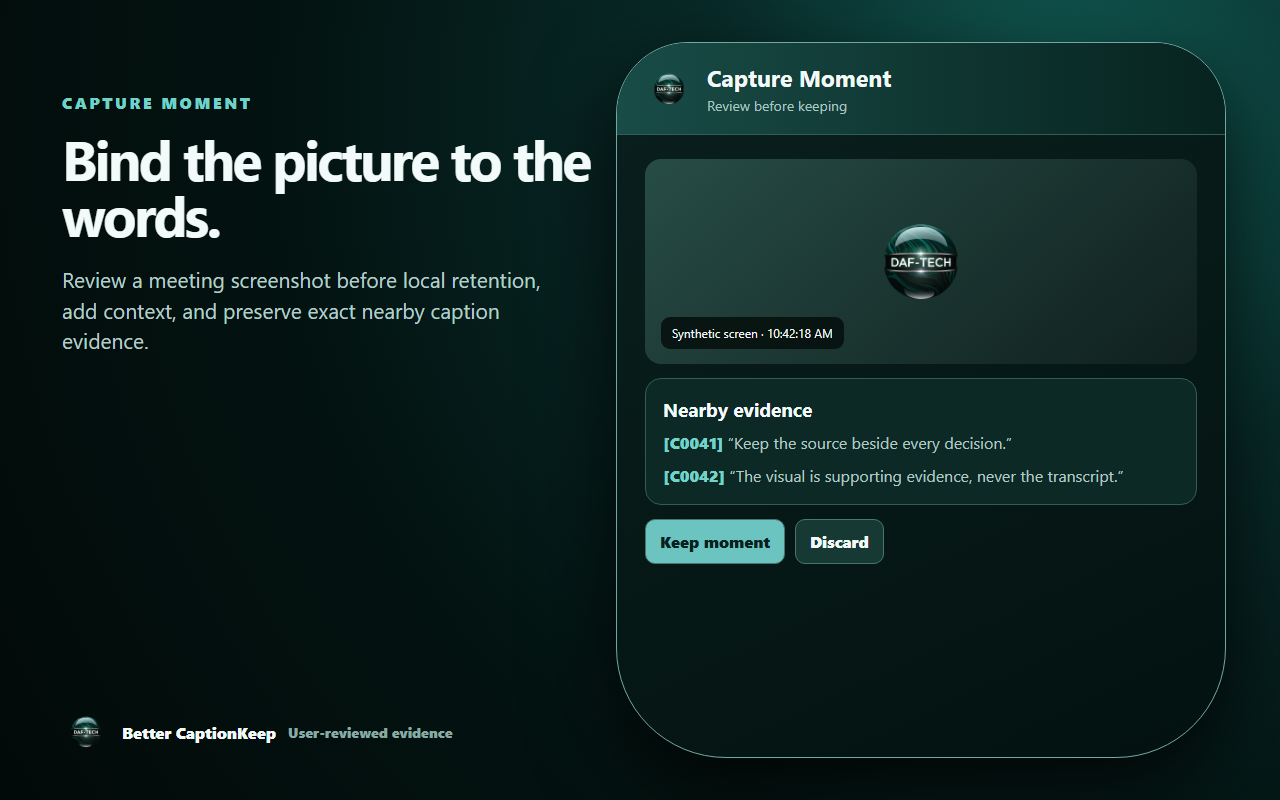
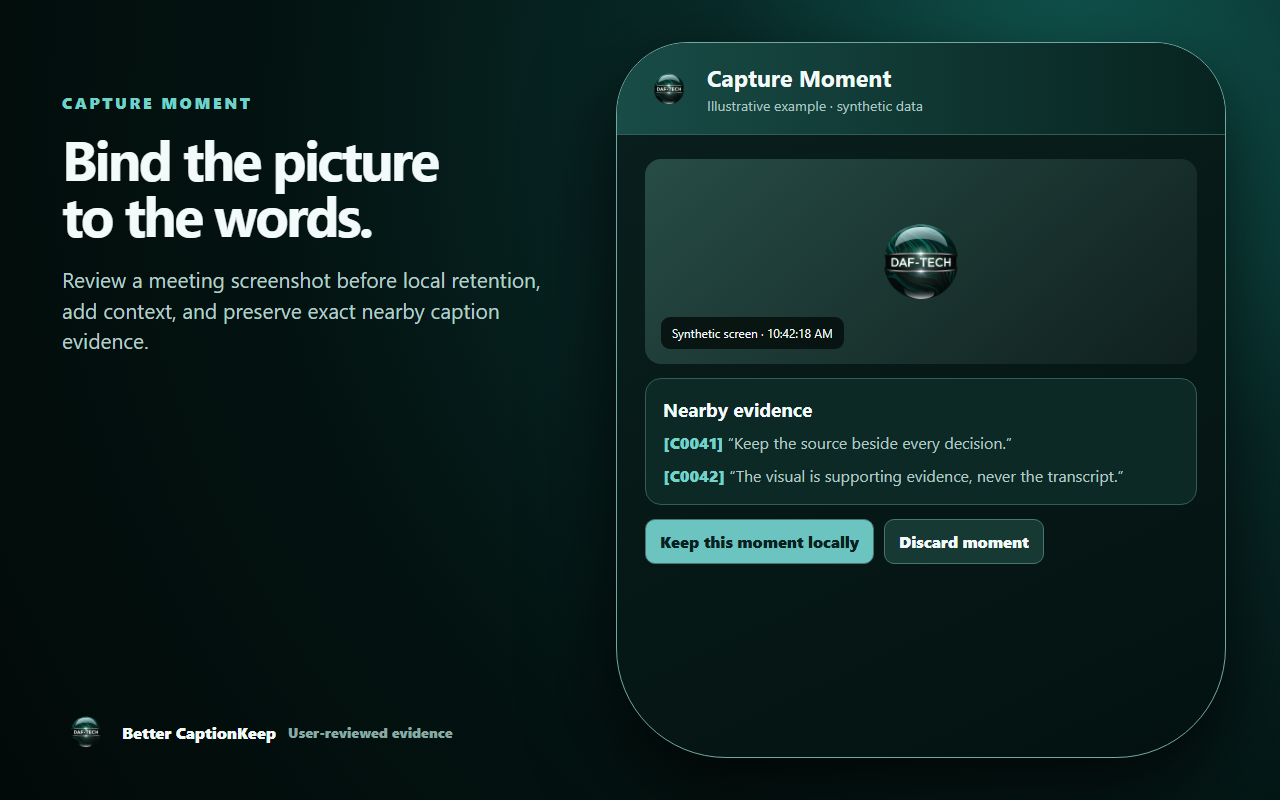
Codex: prepare 6.0 release qualification and repair packaging sandbox

diff --git a/store-assets/6.0/source.html b/store-assets/6.0/source.html
@@ -1,12 +1,12 @@
 <!doctype html>
 <html lang="en"><head><meta charset="utf-8"><meta name="viewport" content="width=device-width,initial-scale=1"><title>Better CaptionKeep 6.0 Store artwork</title>
 <style>
-*{box-sizing:border-box}html,body{margin:0;width:100%;height:100%;overflow:hidden}body{font-family:Inter,"Segoe UI",Arial,sans-serif;background:#03100f;color:#f3fbfa}.slide{display:none;position:relative;width:100vw;height:100vh;padding:58px 62px;background:radial-gradient(circle at 84% 14%,#135f58 0,#082b29 29%,#031311 62%,#020a09 100%)}body.s1 #s1,body.s2 #s2,body.s3 #s3,body.s4 #s4,body.s5 #s5{display:block}.copy{position:absolute;left:62px;top:92px;width:42%;z-index:2}.eyebrow{font-size:16px;font-weight:850;letter-spacing:.16em;text-transform:uppercase;color:#6fd3ca}.copy h1{font-size:55px;line-height:1.02;letter-spacing:-.045em;margin:18px 0}.copy p{max-width:480px;font-size:21px;line-height:1.45;color:#b6ceca}.brand{position:absolute;left:62px;bottom:44px;display:flex;align-items:center;gap:12px;font-weight:800}.brand img{width:48px;height:48px}.brand small{font-size:14px;color:#88aaa5}.window{position:absolute;right:54px;top:42px;width:610px;height:716px;border:1px solid #72a8a1;border-radius:72px 72px 110px 110px;background:linear-gradient(155deg,#0a201e,#031210);box-shadow:0 30px 86px #000c;overflow:hidden}.head{height:92px;padding:22px 28px;background:linear-gradient(90deg,#194c47,#07231f);display:flex;align-items:center;gap:14px;border-bottom:1px solid #315e58}.head img{width:48px;height:48px}.head b{font-size:23px}.head span{display:block;color:#abc5c1;font-size:14px;margin-top:3px}.gear{margin-left:auto;font-size:25px}.body{padding:24px 28px}.source{display:flex;align-items:center;gap:14px;padding-bottom:18px;border-bottom:1px solid #24433f}.sourceicon{width:54px;height:54px;border-radius:16px;display:grid;place-items:center;background:linear-gradient(135deg,#2f963c 0 50%,#3975e8 50%);font-weight:900;font-size:24px}.source strong{font-size:20px}.source small{display:block;color:#a5bdb9;margin-top:4px}.ready{margin-left:auto;color:#76d997;font-weight:850}.sphere{width:142px;height:142px;margin:25px auto 14px;display:block;filter:drop-shadow(0 0 18px #58c7bb55)}.center{text-align:center}.center h2{font-size:34px;margin:8px 0 10px}.center p{font-size:17px;line-height:1.5;color:#abc0bd;margin:0 auto 20px;max-width:500px}.primary{height:68px;border-radius:13px;background:#70c8c5;color:#062322;display:grid;place-items:center;font-weight:900;font-size:22px}.platforms{display:grid;grid-template-columns:repeat(3,1fr);gap:10px;margin-top:14px}.platform{padding:13px 5px;border:1px solid #35615b;border-radius:13px;text-align:center;background:#102b27;font-weight:800}.tabs{display:flex;gap:8px;margin-bottom:18px}.tab{padding:10px 13px;border-radius:999px;color:#91aaa6;font-weight:750}.tab.on{background:#1d524c;color:#fff}.card{border:1px solid #315d57;background:#0d2925;border-radius:16px;padding:17px;margin-top:14px}.card h3{margin:0 0 9px;font-size:19px}.card p{margin:0;color:#b4c9c5;line-height:1.45}.cite{color:#74d3c8;font-weight:800}.row{display:flex;gap:10px;margin-top:14px}.button{padding:11px 14px;border-radius:10px;border:1px solid #4a756f;background:#173934;font-weight:800}.button.hot{background:#6cc4c0;color:#062120}.moment{height:205px;border-radius:16px;background:linear-gradient(140deg,#274c46,#10201e);display:grid;place-items:center;position:relative;overflow:hidden}.moment img{width:118px}.stamp{position:absolute;bottom:15px;left:16px;padding:8px 11px;background:#07120fee;border-radius:9px;font-size:12px}.receipt{display:grid;grid-template-columns:1fr 1fr;gap:12px}.metric{padding:16px;border-radius:14px;background:#102c28;border:1px solid #315954}.metric b{font-size:26px;display:block}.metric span{color:#a8c0bc;font-size:13px}.settings{display:grid;grid-template-columns:1fr 1fr;gap:11px}.setting{padding:14px;border-radius:13px;border:1px solid #315b55;background:#102924}.setting b{display:block;margin-bottom:5px}.setting span{font-size:13px;color:#9eb8b3}.switch{float:right;width:38px;height:21px;border-radius:999px;background:#69c5a0;position:relative}.switch:after{content:"";position:absolute;right:3px;top:3px;width:15px;height:15px;border-radius:50%;background:white}#promo{display:none;position:relative;width:100vw;height:100vh;background:radial-gradient(circle at 76% 46%,#11645b 0,#07322e 25%,#020b0a 67%);overflow:hidden}.promo .orb{position:absolute;right:7%;top:50%;transform:translateY(-50%);height:82%;filter:drop-shadow(0 0 34px #73ddd277)}.promo .pcopy{position:absolute;left:7%;top:18%;width:53%;z-index:2}.promo .label{color:#71d5cc;text-transform:uppercase;letter-spacing:.16em;font-weight:900;font-size:min(2.4vw,17px)}.promo h1{font-size:min(7vw,70px);line-height:.98;letter-spacing:-.045em;margin:15px 0;color:white}.promo p{font-size:min(3vw,24px);color:#bad4cf;margin:0}.promo .product{position:absolute;left:7%;bottom:9%;font-weight:850}body.promo .slide{display:none}body.promo #promo{display:block}body.small .pcopy{top:16%;width:62%}body.small .promo h1{font-size:34px}body.small .promo p{display:none}body.small .promo .orb{height:72%;right:2%}body.small .promo .product{font-size:12px}
+*{box-sizing:border-box}html,body{margin:0;width:100%;height:100%;overflow:hidden}body{font-family:Inter,"Segoe UI",Arial,sans-serif;background:#03100f;color:#f3fbfa}.slide{display:none;position:relative;width:100vw;height:100vh;padding:58px 62px;background:radial-gradient(circle at 84% 14%,#135f58 0,#082b29 29%,#031311 62%,#020a09 100%)}body.s1 #s1,body.s2 #s2,body.s3 #s3,body.s4 #s4,body.s5 #s5{display:block}.copy{position:absolute;left:62px;top:92px;width:42%;z-index:2}.eyebrow{font-size:16px;font-weight:850;letter-spacing:.16em;text-transform:uppercase;color:#6fd3ca}.copy h1{text-wrap:balance;font-size:55px;line-height:1.02;letter-spacing:-.045em;margin:18px 0}.copy p{max-width:480px;font-size:21px;line-height:1.45;color:#b6ceca}.brand{position:absolute;left:62px;bottom:44px;display:flex;align-items:center;gap:12px;font-weight:800}.brand img{width:48px;height:48px}.brand small{font-size:14px;color:#88aaa5}.window{position:absolute;right:54px;top:42px;width:610px;height:716px;border:1px solid #72a8a1;border-radius:72px 72px 110px 110px;background:linear-gradient(155deg,#0a201e,#031210);box-shadow:0 30px 86px #000c;overflow:hidden}.head{height:92px;padding:22px 28px;background:linear-gradient(90deg,#194c47,#07231f);display:flex;align-items:center;gap:14px;border-bottom:1px solid #315e58}.head img{width:48px;height:48px}.head b{font-size:23px}.head span{display:block;color:#abc5c1;font-size:14px;margin-top:3px}.gear{margin-left:auto;font-size:25px}.body{padding:24px 28px}.source{display:flex;align-items:center;gap:14px;padding-bottom:18px;border-bottom:1px solid #24433f}.sourceicon{width:54px;height:54px;border-radius:16px;display:grid;place-items:center;background:linear-gradient(135deg,#2f963c 0 50%,#3975e8 50%);font-weight:900;font-size:24px}.source strong{font-size:20px}.source small{display:block;color:#a5bdb9;margin-top:4px}.ready{margin-left:auto;color:#76d997;font-weight:850}.sphere{width:142px;height:142px;margin:25px auto 14px;display:block;filter:drop-shadow(0 0 18px #58c7bb55)}.center{text-align:center}.center h2{text-wrap:balance;font-size:34px;margin:8px 0 10px}.center p{font-size:17px;line-height:1.5;color:#abc0bd;margin:0 auto 20px;max-width:500px}.primary{height:68px;border-radius:13px;background:#70c8c5;color:#062322;display:grid;place-items:center;font-weight:900;font-size:22px}.secondary{text-align:center;padding:16px 0;color:#b6ceca;font-size:17px;font-weight:750}.platforms{display:grid;grid-template-columns:repeat(3,1fr);gap:10px;margin-top:14px}.platform{padding:13px 5px;border:1px solid #35615b;border-radius:13px;text-align:center;background:#102b27;font-weight:800}.tabs{display:flex;gap:8px;margin-bottom:18px}.tab{padding:10px 13px;border-radius:999px;color:#91aaa6;font-weight:750}.tab.on{background:#1d524c;color:#fff}.card{border:1px solid #315d57;background:#0d2925;border-radius:16px;padding:17px;margin-top:14px}.card h3{margin:0 0 9px;font-size:19px}.card p{margin:0;color:#b4c9c5;line-height:1.45}.cite{color:#74d3c8;font-weight:800}.row{display:flex;flex-wrap:wrap;gap:10px;margin-top:14px}.button{padding:11px 14px;border-radius:10px;border:1px solid #4a756f;background:#173934;font-weight:800}.button.hot{background:#6cc4c0;color:#062120}.moment{height:205px;border-radius:16px;background:linear-gradient(140deg,#274c46,#10201e);display:grid;place-items:center;position:relative;overflow:hidden}.moment img{width:118px}.stamp{position:absolute;bottom:15px;left:16px;padding:8px 11px;background:#07120fee;border-radius:9px;font-size:12px}.receipt{display:grid;grid-template-columns:1fr 1fr;gap:12px}.metric{padding:16px;border-radius:14px;background:#102c28;border:1px solid #315954}.metric b{font-size:26px;display:block}.metric span{color:#a8c0bc;font-size:13px}.settings{display:grid;grid-template-columns:1fr 1fr;gap:11px}.setting{padding:14px;border-radius:13px;border:1px solid #315b55;background:#102924}.setting b{display:block;margin-bottom:5px}.setting span{font-size:13px;color:#9eb8b3}.switch{float:right;width:38px;height:21px;border-radius:999px;background:#69c5a0;position:relative}.switch:after{content:"";position:absolute;right:3px;top:3px;width:15px;height:15px;border-radius:50%;background:white}#promo{display:none;position:relative;width:100vw;height:100vh;background:radial-gradient(circle at 76% 46%,#11645b 0,#07322e 25%,#020b0a 67%);overflow:hidden}.promo .orb{position:absolute;right:7%;top:50%;transform:translateY(-50%);height:82%;filter:drop-shadow(0 0 34px #73ddd277)}.promo .pcopy{position:absolute;left:7%;top:18%;width:53%;z-index:2}.promo .label{color:#71d5cc;text-transform:uppercase;letter-spacing:.16em;font-weight:900;font-size:min(2.4vw,17px)}.promo h1{font-size:min(7vw,70px);line-height:.98;letter-spacing:-.045em;margin:15px 0;color:white}.promo p{font-size:min(3vw,24px);color:#bad4cf;margin:0}.promo .product{position:absolute;left:7%;bottom:9%;font-weight:850}body.promo .slide{display:none}body.promo #promo{display:block}body.small .pcopy{top:16%;width:62%}body.small .promo h1{font-size:34px}body.small .promo p{display:none}body.small .promo .orb{height:72%;right:2%}body.small .promo .product{font-size:12px}
 </style></head><body>
-<section id="s1" class="slide"><div class="copy"><div class="eyebrow">One calm decision</div><h1>Keep the meeting. Keep the evidence.</h1><p>Live transcripts begin ready on Teams, Google Meet, and Zoom Web. One button preserves the meeting locally.</p></div><div class="window"><div class="head"><img src="../../teams-captions-saver/icons/daf-tech-sphere.png"><div><b>Better CaptionKeep</b><span>Meeting record</span></div><div class="gear">⚙</div></div><div class="body"><div class="source"><div class="sourceicon">M</div><div><strong>Google Meet</strong><small>18 captions preserved</small></div><div class="ready">Ready</div></div><img class="sphere" src="../../teams-captions-saver/icons/daf-tech-sphere.png"><div class="center"><h2>Keep this meeting?</h2><p>Capturing locally. Your transcript stays on this device until you choose otherwise.</p></div><div class="primary">Keep this meeting</div><div class="platforms"><div class="platform">Teams</div><div class="platform">Meet</div><div class="platform">Zoom</div></div></div></div><div class="brand"><img src="../../teams-captions-saver/icons/daf-tech-sphere.png">Better CaptionKeep <small>Version 6.0</small></div></section>
-<section id="s2" class="slide"><div class="copy"><div class="eyebrow">Rolling Live Notes</div><h1>Notes that can show their work.</h1><p>Restart-safe rolling drafts cite the exact source captions. Pause, resume, revise, and review without changing the transcript.</p></div><div class="window"><div class="head"><img src="../../teams-captions-saver/icons/daf-tech-sphere.png"><div><b>Live Workspace</b><span>Synthetic product review</span></div></div><div class="body"><div class="tabs"><div class="tab">Transcript</div><div class="tab on">Live Notes</div><div class="tab">Evidence</div><div class="tab">Ask</div></div><div class="card"><h3>Rolling notes · capturing</h3><p><span class="cite">[C0007]</span> The team agreed that every derivative must retain its source fingerprint.</p><p style="margin-top:12px"><span class="cite">[C0012]</span> The rollout owner will verify browser-specific upgrade behavior.</p><div class="row"><div class="button hot">Update now</div><div class="button">Pause</div><div class="button">Review draft</div></div></div><div class="card"><h3>Revision history</h3><p>Revision 4 · 24 cited captions · locally retained</p></div></div></div><div class="brand"><img src="../../teams-captions-saver/icons/daf-tech-sphere.png">Better CaptionKeep <small>Local cited notes</small></div></section>
-<section id="s3" class="slide"><div class="copy"><div class="eyebrow">Capture Moment</div><h1>Bind the picture to the words.</h1><p>Review a meeting screenshot before local retention, add context, and preserve exact nearby caption evidence.</p></div><div class="window"><div class="head"><img src="../../teams-captions-saver/icons/daf-tech-sphere.png"><div><b>Capture Moment</b><span>Review before keeping</span></div></div><div class="body"><div class="moment"><img src="../../teams-captions-saver/icons/daf-tech-sphere.png"><div class="stamp">Synthetic screen · 10:42:18 AM</div></div><div class="card"><h3>Nearby evidence</h3><p><span class="cite">[C0041]</span> “Keep the source beside every decision.”</p><p style="margin-top:10px"><span class="cite">[C0042]</span> “The visual is supporting evidence, never the transcript.”</p></div><div class="row"><div class="button hot">Keep moment</div><div class="button">Discard</div></div></div></div><div class="brand"><img src="../../teams-captions-saver/icons/daf-tech-sphere.png">Better CaptionKeep <small>User-reviewed evidence</small></div></section>
-<section id="s4" class="slide"><div class="copy"><div class="eyebrow">Meeting Receipt</div><h1>From live captions to a durable record.</h1><p>Search, reopen, export, ask cited questions, and retain reviewed outcomes—while the original captions remain untouched.</p></div><div class="window"><div class="head"><img src="../../teams-captions-saver/icons/daf-tech-sphere.png"><div><b>Meeting Receipt</b><span>Architecture decision review</span></div></div><div class="body"><div class="receipt"><div class="metric"><b>86</b><span>source captions</span></div><div class="metric"><b>7</b><span>evidence markers</span></div><div class="metric"><b>4</b><span>note revisions</span></div><div class="metric"><b>1</b><span>captured moment</span></div></div><div class="card"><h3>Ask this transcript</h3><p>What decision was made about retention?</p><p style="margin-top:12px"><span class="cite">Answer:</span> The pilot retains local meeting receipts for 30 days unless managed policy requires less. <span class="cite">[C0062] [C0065]</span></p></div><div class="row"><div class="button hot">Export receipt</div><div class="button">Open transcript</div></div></div></div><div class="brand"><img src="../../teams-captions-saver/icons/daf-tech-sphere.png">Better CaptionKeep <small>Source-preserving by design</small></div></section>
-<section id="s5" class="slide"><div class="copy"><div class="eyebrow">Light front door. Deep back door.</div><h1>Simple for meetings. Serious for operations.</h1><p>Privacy, retention, templates, exports, enterprise policy, Microsoft 365, diagnostics, and five browser targets live behind one settings gear.</p></div><div class="window"><div class="head"><img src="../../teams-captions-saver/icons/daf-tech-sphere.png"><div><b>All Settings</b><span>Version 6.0 operational cockpit</span></div></div><div class="body"><div class="settings"><div class="setting"><i class="switch"></i><b>Live transcript</b><span>Starts on for supported meetings</span></div><div class="setting"><i class="switch"></i><b>Privacy Scrubber</b><span>Review before external handoff</span></div><div class="setting"><b>Meeting templates</b><span>Local, versioned, source-bound</span></div><div class="setting"><b>Retention</b><span>User and managed policy controls</span></div><div class="setting"><b>Microsoft 365</b><span>Customer-owned tenant setup</span></div><div class="setting"><b>Exports</b><span>TXT · Markdown · DOCX · PDF</span></div></div><div class="card"><h3>Browser commitment</h3><p>Chrome · Edge · Brave · Firefox · Opera</p></div><div class="card"><h3>Local by default</h3><p>No meeting bot. No required CaptionKeep account. No publisher-operated transcript cloud.</p></div></div></div><div class="brand"><img src="../../teams-captions-saver/icons/daf-tech-sphere.png">Better CaptionKeep <small>Advanced controls when you need them</small></div></section>
+<section id="s1" class="slide"><div class="copy"><div class="eyebrow">One calm decision</div><h1>Keep the meeting. Keep the evidence.</h1><p>Live caption capture starts automatically on supported Teams, Google Meet, and Zoom Web meetings. Open Live Workspace to review the local transcript.</p></div><div class="window"><div class="head"><img src="../../teams-captions-saver/icons/daf-tech-sphere.png"><div><b>Better CaptionKeep</b><span>Illustrative example · synthetic data</span></div><div class="gear">⚙</div></div><div class="body"><div class="source"><div class="sourceicon">M</div><div><strong>Google Meet</strong><small>18 captions preserved</small></div><div class="ready">Live</div></div><img class="sphere" src="../../teams-captions-saver/icons/daf-tech-sphere.png"><div class="center"><h2>Live transcript is on</h2><p>Capturing locally. Your transcript stays on this device until you choose otherwise.</p></div><div class="primary">Open Live Workspace</div><div class="secondary">Open last live transcript</div></div></div><div class="brand"><img src="../../teams-captions-saver/icons/daf-tech-sphere.png">Better CaptionKeep <small>Version 6.0</small></div></section>
+<section id="s2" class="slide"><div class="copy"><div class="eyebrow">Rolling Live Notes</div><h1>Notes that can show their work.</h1><p>Restart-safe rolling drafts cite the exact source captions. Pause, resume, revise, and review without changing the transcript.</p></div><div class="window"><div class="head"><img src="../../teams-captions-saver/icons/daf-tech-sphere.png"><div><b>Live Workspace</b><span>Illustrative example · synthetic data</span></div></div><div class="body"><div class="tabs"><div class="tab">Transcript</div><div class="tab on">Notes</div><div class="tab">Tools</div></div><div class="card"><h3>Rolling notes · Running</h3><p><span class="cite">[C0007]</span> The team agreed that every derivative must retain its source fingerprint.</p><p style="margin-top:12px"><span class="cite">[C0012]</span> The rollout owner will verify browser-specific upgrade behavior.</p><div class="row"><div class="button hot">Update now</div><div class="button">Pause rolling notes</div><div class="button">Review this draft</div></div></div><div class="card"><h3>Rolling revision history</h3><p>Revision 4 · 24 cited captions · locally retained</p></div></div></div><div class="brand"><img src="../../teams-captions-saver/icons/daf-tech-sphere.png">Better CaptionKeep <small>Local cited notes</small></div></section>
+<section id="s3" class="slide"><div class="copy"><div class="eyebrow">Capture Moment</div><h1>Bind the picture to the words.</h1><p>Review a meeting screenshot before local retention, add context, and preserve exact nearby caption evidence.</p></div><div class="window"><div class="head"><img src="../../teams-captions-saver/icons/daf-tech-sphere.png"><div><b>Capture Moment</b><span>Illustrative example · synthetic data</span></div></div><div class="body"><div class="moment"><img src="../../teams-captions-saver/icons/daf-tech-sphere.png"><div class="stamp">Synthetic screen · 10:42:18 AM</div></div><div class="card"><h3>Nearby evidence</h3><p><span class="cite">[C0041]</span> “Keep the source beside every decision.”</p><p style="margin-top:10px"><span class="cite">[C0042]</span> “The visual is supporting evidence, never the transcript.”</p></div><div class="row"><div class="button hot">Keep this moment locally</div><div class="button">Discard moment</div></div></div></div><div class="brand"><img src="../../teams-captions-saver/icons/daf-tech-sphere.png">Better CaptionKeep <small>User-reviewed evidence</small></div></section>
+<section id="s4" class="slide"><div class="copy"><div class="eyebrow">Meeting Receipt</div><h1>From live captions to a durable record.</h1><p>Search, reopen, export, ask cited questions, and retain reviewed outcomes—while the original captions remain untouched.</p></div><div class="window"><div class="head"><img src="../../teams-captions-saver/icons/daf-tech-sphere.png"><div><b>Meeting Receipt</b><span>Illustrative example · synthetic data</span></div></div><div class="body"><div class="receipt"><div class="metric"><b>86</b><span>source captions</span></div><div class="metric"><b>7</b><span>evidence markers</span></div><div class="metric"><b>4</b><span>note revisions</span></div><div class="metric"><b>1</b><span>captured moment</span></div></div><div class="card"><h3>Ask this transcript</h3><p>What decision was made about retention?</p><p style="margin-top:12px"><span class="cite">Answer:</span> The pilot retains local meeting receipts for 30 days unless managed policy requires less. <span class="cite">[C0062] [C0065]</span></p></div><div class="row"><div class="button hot">Keep reviewed answer</div><div class="button">Clear draft</div></div></div></div><div class="brand"><img src="../../teams-captions-saver/icons/daf-tech-sphere.png">Better CaptionKeep <small>Source-preserving by design</small></div></section>
+<section id="s5" class="slide"><div class="copy"><div class="eyebrow">Light front door. Deep back door.</div><h1>Simple for meetings. Serious for operations.</h1><p>Privacy, retention, templates, exports, enterprise policy, Microsoft 365, diagnostics, and five browser targets live behind one settings gear.</p></div><div class="window"><div class="head"><img src="../../teams-captions-saver/icons/daf-tech-sphere.png"><div><b>All Settings</b><span>Illustrative example · synthetic data</span></div></div><div class="body"><div class="settings"><div class="setting"><i class="switch"></i><b>Live transcript</b><span>Starts on for supported meetings</span></div><div class="setting"><i class="switch"></i><b>Privacy Scrubber</b><span>Review before external handoff</span></div><div class="setting"><b>Meeting templates</b><span>Local, versioned, source-bound</span></div><div class="setting"><b>Retention</b><span>User and managed policy controls</span></div><div class="setting"><b>Microsoft 365</b><span>Customer-owned tenant setup</span></div><div class="setting"><b>Exports</b><span>TXT · Markdown · DOCX · PDF</span></div></div><div class="card"><h3>Browser commitment</h3><p>Chrome · Edge · Brave · Firefox · Opera</p></div><div class="card"><h3>Local by default</h3><p>No meeting bot. No required CaptionKeep account. No publisher-operated transcript cloud.</p></div></div></div><div class="brand"><img src="../../teams-captions-saver/icons/daf-tech-sphere.png">Better CaptionKeep <small>Advanced controls when you need them</small></div></section>
 <section id="promo" class="promo"><div class="pcopy"><div class="label">Better CaptionKeep 6.0</div><h1>Keep the meeting. Keep the evidence.</h1><p>Local-first live transcripts and cited meeting records.</p></div><img class="orb" src="../../teams-captions-saver/icons/daf-tech-sphere.png"><div class="product">A DAF-TECH product</div></section>
 <script>const q=new URLSearchParams(location.search);document.body.className=q.has('promo')?`promo ${q.get('promo')}`:`s${q.get('slide')||'1'}`;</script></body></html>

diff --git a/docs/release-state/6.0-preparation.md b/docs/release-state/6.0-preparation.md
@@ -1,0 +1,120 @@
+# 6.0 release preparation
+
+Date: October 24, 2026 (America/Chicago). Lead: David Farris.
+
+David authorized the release push: “do your thing then and I am a GO.” This
+starts release qualification within the existing 6.0 scope. It does not mark
+unperformed checks passed or waive the unchanged-candidate window.
+
+## The paths to use
+
+- Source checkout: `P:\Projects\better-captionkeep-dev` on `codex/6.0`.
+- Extension source: `P:\Projects\better-captionkeep-dev\teams-captions-saver`.
+- The one next unpacked test package: `P:\Projects\better-captionkeep-dev\dist\uat`.
+- Existing tested Development package: `P:\Projects\better-captionkeep-dev\dist\dev`; preserve it.
+- Store/browser distribution and machine evidence: `P:\Projects\better-captionkeep-dev\dist\prod`.
+
+Sandbox reports and preservation copies are evidence, not installation targets.
+No extra release lane or alternate source checkout is introduced.
+
+The lead reaffirmed one source checkout with these three `dist` lanes and
+production-only distribution. Separate top-level lane folders were an October
+17-18 workaround, not the desired permanent layout. On October 24 the two 5.4
+checkouts, unused UAT placeholder and empty legacy 6.0 remnant were moved to
+`P:\projectsArchive`, outside the project folder. The active 6.0 checkout now
+has self-contained Git metadata; its source revision, tracked/untracked status
+and existing builds were preserved. Git connectivity validation passed.
+`P:\projectsArchive\better-captionkeep-5.4-archive-record.json` records the
+5.4 move. Only the active source project and its sandbox remain under Projects.
+
+## Owner UAT
+
+David reports positive 6.0 UAT in Brave, Opera, Firefox and Edge, loaded from
+`P:\Projects\better-captionkeep-dev\dist`, and is unsure whether it was Prod or
+Dev. Preflight found only `dist\dev`, so Development is the likely installation;
+that is an inference, not an observed browser-extension registration. Exact
+provider combinations and individual case outcomes were not supplied.
+
+The existing Development package's executable shipping files and the new UAT
+package were independently compared with current source using
+`verifyPackageSource()`, permitting only the intended manifest and local Graph
+configuration differences. Both comparisons passed. This connects the local
+files to the current code; it does not establish which package each browser
+actually loaded. No private Graph configuration is copied into this report.
+
+## Team and review ownership
+
+The shared Software Team 1.0.6 / roster 1.0.2 supplies named identities. The
+repository's older bundled skill is not evidence of synchronized installation.
+Project evidence stays here; no shared skill or personal-profile files are
+modified by this release preparation.
+
+| Member | Actual assignment |
+| --- | --- |
+| Codex | Integration, fixed build paths, source/package identity, release record and tracker reconciliation |
+| Ishan | Shipping/runtime and promotion review; secure hosted-runner correction; independent package review |
+| Mara | Tester guidance, current-product Store illustrations and isolated artwork rendering |
+| Lena | Independent QA/security/accessibility checks and sequential reproduction of browser-test failures |
+| Heike | Existing CI/cost boundary review; no new paid service activation or billing verification |
+| Ellis | Inclusive participation and decision attribution; no technical certification or payroll run |
+
+Each specialist was separately delegated. Codex's integration assessment is
+self-review. Grouped discipline coverage does not represent a different agent
+for every job title.
+
+## Scope and promotion
+
+Keep the current feature scope. MCP and Safari remain deferred. No new required
+feature was established by the go/no-go review. The versioned machine state in
+`6.0.json` remains authoritative; this preparation note does not freeze it.
+
+Before submission, bind actual UAT and remaining browser/provider, privacy,
+recovery, accessibility and permission-delta acceptance to exact packages;
+approve accurate Store materials; retain clean build provenance and complete
+the required 48-hour unchanged window. Store approval, public parity and an
+actual delivered upgrade remain subsequent rollout-completion checks.
+
+## Confirmed release-material findings
+
+Existing [GitHub issue 112](https://github.com/Mr-GraphnStaff/better-captionkeep/issues/112#issuecomment-6381039799)
+records the obsolete tester path and stale Store-interface illustration,
+already linked to [Azure Boards Task 346](https://dev.azure.com/DAF-TECH/Better%20CaptionKeep/_workitems/edit/346).
+Corrections remain unpublished until the reviewed change is integrated. No
+issue is closed solely from local checks.
+
+The first clean packaging run at source `0be5378` passed 441 shipping tests
+with three explicit skips, lint, surface audit, dependency audit and Store
+metadata checks, then failed at the hosted Linux Edge sandbox configuration.
+[Run 40071292932](https://github.com/Mr-GraphnStaff/better-captionkeep/actions/runs/40071292932)
+is preserved as a failed run; no release artifact or publication resulted.
+Repair must preserve sandboxing and fail on an installed browser failure.
+
+The first local shipping run recorded 440 passes and four failures, with zero
+skips. The synthetic Git fixture subsequently passed all 11 release-status
+tests using command-scoped trust for the P: test scratch directory. Browser
+failures were independently retested sequentially: all seven checks passed,
+with zero failures or skips. The original failed run remains retained rather
+than relabeled. Its exact concurrent browser failure cause is not established
+by a successful rerun.
+
+The hosted-runner sandbox correction received independent source review and
+an independently executed focused test covering eight Bash scenarios. Actual
+hosted execution remains a separate check. The source manifest permission
+comparison with public tag `v5.4.0` found no added or removed required, optional,
+host or optional-host permissions; final package review remains required.
+
+Independent artifact inspection verified all 15 provenance artifacts, all seven
+ZIPs (115 entries each), source payload parity and MCP exclusion. All 115 files
+in the original Development build still match their preflight hashes and sizes.
+Current local provenance truthfully identifies an unfrozen, dirty-worktree
+preparation build rather than a clean certified release.
+
+## Evidence location
+
+The single review-output root is
+`P:\Projects\better-captionkeep-sandbox\artifacts\release-6.0-2026-10-24`.
+It includes the preflight Development-file hashes, original failure logs,
+independent checks and coverage record. Previous Store materials were copied
+recoverably under
+`P:\Projects\better-captionkeep-sandbox\preserved\release-6.0-2026-10-24\store-assets-6.0`
+and all ten file hashes were verified before replacement.

diff --git a/docs/software-team/TESTER-ACCEPTANCE-6.0.md b/docs/software-team/TESTER-ACCEPTANCE-6.0.md
@@ -38,14 +38,30 @@ folder. A localhost preview is **not** the installed extension. Do not replace o
 remove your ordinary Store installation or real archive to create a test profile.
 Ask the build owner for the exact package/folder and identity if uncertain.
 
-For an already prepared Chromium development build, Load unpacked selects
-`P:/Projects/better-captionkeep-6.0/dist/dev` (the folder containing manifest.json).
+For this release qualification, Load unpacked selects the prepared Chromium
+UAT build at `P:/Projects/better-captionkeep-dev/dist/uat` (the folder containing
+manifest.json). This is the single next Chromium UAT path; the retained
+`dist/dev` build is historical testing context, not the next candidate to load.
+The prepared UAT source is `0be537813a7eae20a71d5f7781ba64f6f0a2fbcf`;
+it remains unfrozen, so confirm current source and artifact identity with the
+build owner before testing.
 After an agreed rebuild, Reload that extension card and refresh test meeting tabs.
 An existing folder may be stale: the build owner must confirm its source identity.
-Do not load the older 5.4 checkout. Firefox requires its own browser-target package
-and installation instructions; do not use Chromium Load unpacked instructions.
+Do not load the older 5.4 checkout. Firefox requires its own browser-target
+package at `P:/Projects/better-captionkeep-dev/dist/prod/firefox-unpacked` or
+its supplied Firefox ZIP and installation instructions; do not use Chromium
+Load unpacked instructions or the Chromium UAT package.
 
 ### Record every result
+
+David reported positive UAT 6 results on October 24, 2026 in Brave, Opera,
+Firefox and Edge, and identified `P:/Projects/better-captionkeep-dev/dist` as
+the build location. Preflight found only `dist/dev` at the time; that suggests
+the development build but does not establish the browser's registered folder
+or exact package identity. Credit this as positive owner-reported UAT. Browser
+versions, providers and cases exercised have not yet been recorded here; the
+report does not assign blanket PASS results. Add those details to the run
+records when available and retain the original observation.
 
 Use **PASS**, **FAIL**, **BLOCKED** (cannot run: name the prerequisite), or
 **NOT RUN**. Every case starts NOT RUN; a checkbox or prior automated result is
@@ -150,7 +166,7 @@ a prepared test environment. If you cannot safely simulate them, record BLOCKED.
 ## Separate browser/provider results
 
 Enter result + run-record reference in every cell; each starts **NOT RUN**.
-Repeat F01–F10 for each cell, and all applicable U/P/M/R cases per browser.
+Repeat F01–F10 for each cell, and all applicable U/P/D/R cases per browser.
 Certification requires all applicable journeys, not merely a passing first session.
 
 | Browser | Teams Web | Google Meet | Zoom Web |

diff --git a/docs/software-team/project-context.md b/docs/software-team/project-context.md
@@ -2,9 +2,28 @@
 
 > **October 16, 2026 — lead scope decision:** BYOMCP is removed from the shipping 6.0 feature set and deferred to a later release. Earlier MCP implementation and acceptance entries below are historical development evidence. Current 6.0 has no MCP connection, native-helper permission, tool-execution interface or helper distribution. Local capture, archive, exports, reviewed BYOAI handoff and historical receipt readability remain. Other release gates remain open.
 
-Date: October 14, 2026. Team lead: David Farris.
-Source: P:/Projects/better-captionkeep-6.0, branch codex/6.0.
-Review starting revision: 360cae2. Public 5.4 checkout stays unchanged.
+Current update: October 24, 2026. Team lead: David Farris.
+Source: P:/Projects/better-captionkeep-dev, branch codex/6.0.
+Historical review starting revision: 360cae2. The 5.4 contents are preserved in the archive.
+
+## Current release preparation
+
+David authorized the 6.0 release push on October 24. The current assignment,
+named specialist ownership, positive owner UAT and verification limits are in
+[the release-preparation record](../release-state/6.0-preparation.md).
+Earlier dated assignments below are historical and do not replace that record.
+
+Use one active source checkout with `dist/dev`, `dist/uat` and `dist/prod`.
+Only `dist/prod` supplies published distribution assets. The separate 5.4
+checkouts and unused top-level lane remnants are archived in
+`P:/projectsArchive`; active 6.0 Git metadata is self-contained. Do not recreate
+the former top-level UAT/production source checkouts.
+
+The shared Software Team 1.0.6 / roster 1.0.2 supplies the named team. Ishan,
+Mara, Lena, Heike and Ellis were separately delegated for this release push;
+Codex coordinates integration. The repository's older bundled skill is not
+proof of synchronization with the shared installation. No shared skill files
+were modified during release preparation.
 
 ## Assignment and authority
 

diff --git a/readme.md b/readme.md
@@ -18,6 +18,9 @@
 **Testing 6.0?** Use the [hands-on QA and acceptance packet](docs/software-team/TESTER-ACCEPTANCE-6.0.md).
 Start with the Brave first-session checks; record results against the actual
 installed build. This is development QA, not a frozen candidate or certification.
+The [October 24 release-preparation record](docs/release-state/6.0-preparation.md)
+identifies the single next Chromium test package at
+`P:\Projects\better-captionkeep-dev\dist\uat`; existing Development files are preserved.
 
 Save live captions from Microsoft Teams, Google Meet, and Zoom Web, including the Teams PWA. Live transcript capture starts by default for supported meetings and can be paused with the Capture setting. Export TXT, Markdown, or Word documents, choose a save location, revisit the durable local completed-meeting archive, and select a synchronized interface theme.
 
@@ -138,6 +141,12 @@ Chrome and Edge publicly serve `5.4.0`. Installed-upgrade and post-upgrade funct
 ### Three lifecycle environments
 
 Generated output has exactly three stable locations:
+
+Use one active source checkout, `P:\Projects\better-captionkeep-dev`, with the
+three generated lanes below. Separate top-level UAT/production checkouts are
+archived outside `P:\Projects`, under `P:\projectsArchive`. Only `dist/prod`
+supplies published GitHub distribution assets and Store submissions; `dist/dev`
+and `dist/uat` are not published. Generated `dist/` files remain ignored by Git.
 
 - `dist/dev` — current development build.
 - `dist/uat` — the single QA/UAT release candidate loaded unpacked in Chrome or Edge.
